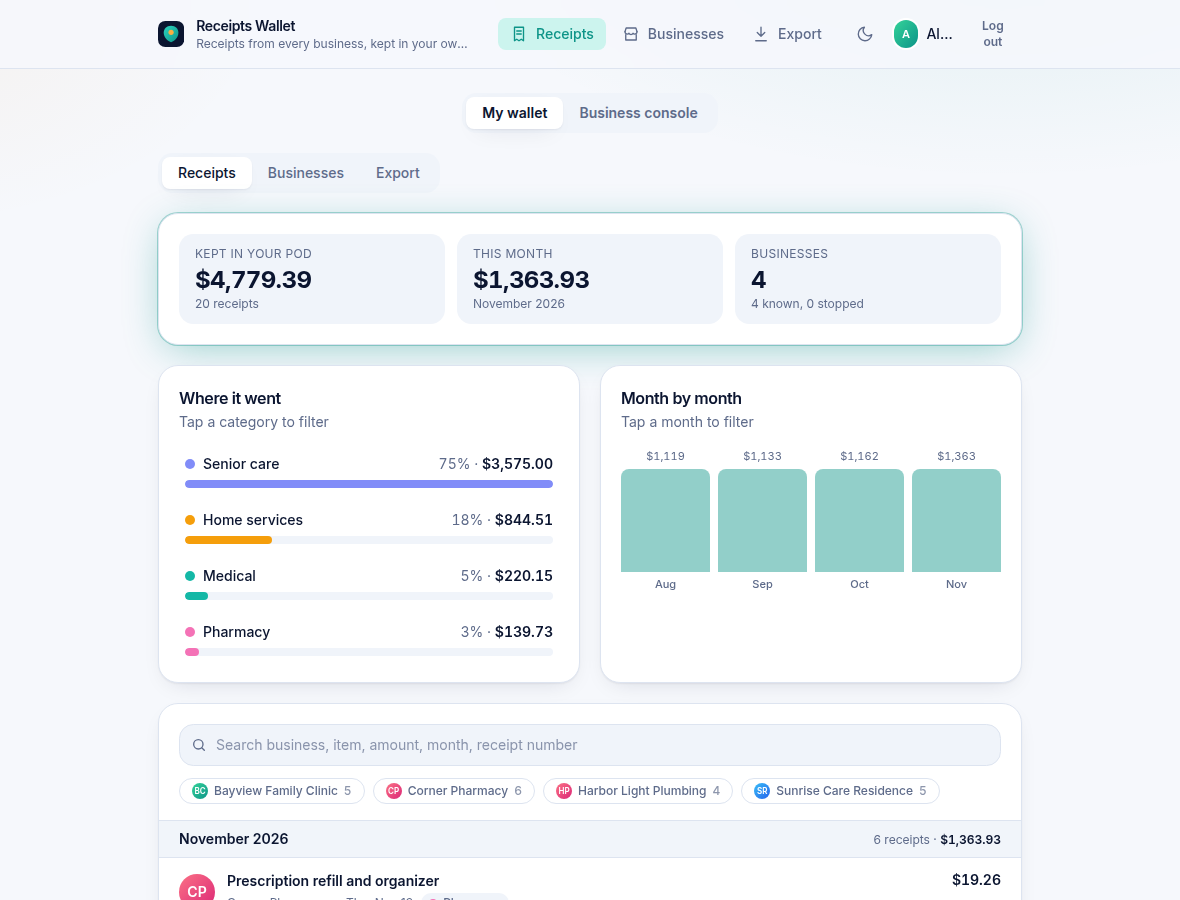
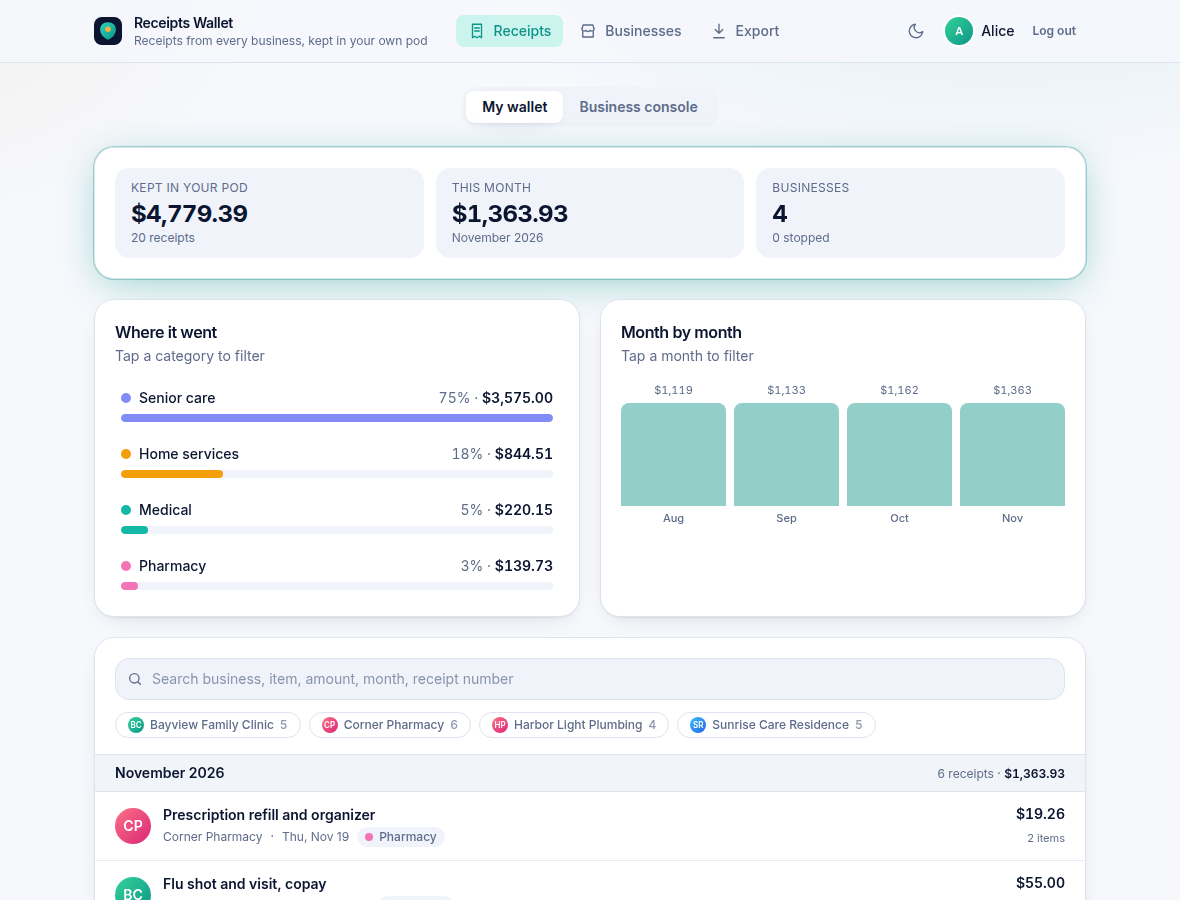
showcase: receipts-wallet compact stats, phone layout fixes, e2e green (6/6 against pods-dev)

diff --git a/showcase/apps/receipts-wallet/e2e/story.test.ts b/showcase/apps/receipts-wallet/e2e/story.test.ts
@@ -65,6 +65,26 @@ async function logIn(page: Page, who: 'ALICE' | 'PRACTITIONER') {
 
 const nav = (page: Page, label: string) => page.locator('nav[aria-label=Primary]:visible').getByRole('button', { name: new RegExp(`^${label}`) })
 
+/** Wait for the timeline; on failure leave a screenshot and the visible text so a flaky engine run can be diagnosed. */
+async function rows(page: Page, name: string) {
+  try {
+    await page.getByTestId('receipt-row').first().waitFor({ timeout: 60_000 })
+  } catch (e) {
+    fs.mkdirSync(shots, { recursive: true })
+    await page.screenshot({ path: path.join(shots, `FAILED-${name}.png`) })
+    throw new Error(`no timeline for ${name}: ${(await page.locator('body').innerText()).slice(0, 400)}`, { cause: e })
+  }
+}
+
+/** Elements that stick out past the right edge of the viewport (empty when the page fits). */
+const overflowing = (page: Page) =>
+  page.evaluate(() =>
+    [...document.querySelectorAll<HTMLElement>('body *')]
+      .filter((e) => e.getBoundingClientRect().right > window.innerWidth + 1 && !e.closest('[hidden]') && !e.closest('.overflow-x-auto') && getComputedStyle(e).position !== 'fixed')
+      .slice(0, 5)
+      .map((e) => `${e.tagName}.${String(e.className).slice(0, 60)}`),
+  )
+
 async function snap(page: Page, name: string) {
   await page.waitForTimeout(450) // let entrance animations finish
   fs.mkdirSync(shots, { recursive: true })
@@ -110,7 +130,7 @@ describe.skipIf(!have)('receipts wallet story on pods-dev', () => {
     await alice.getByTestId('login').waitFor()
     await snap(alice, '01-welcome')
     await logIn(alice, 'ALICE')
-    await alice.getByTestId('receipt-row').first().waitFor({ timeout: 60_000 })
+    await rows(alice, 'alice')
     expect(await alice.getByTestId('receipt-row').count()).toBe(20)
     await alice.waitForTimeout(600)
     await snap(alice, '02-timeline')
@@ -236,17 +256,30 @@ describe.skipIf(!have)('receipts wallet story on pods-dev', () => {
     const p = await phone.newPage()
     await p.goto(APP)
     await logIn(p, 'ALICE')
-    await p.getByTestId('receipt-row').first().waitFor({ timeout: 60_000 })
+    await rows(p, 'phone')
     await snap(p, '13-phone-timeline')
     expect(await p.evaluate(() => document.documentElement.scrollWidth <= window.innerWidth + 1)).toBe(true)
+    expect(await overflowing(p)).toEqual([])
     await p.getByTestId('receipt-row').first().click()
     await p.getByTestId('detail').waitFor()
     await snap(p, '14-phone-detail')
     await p.keyboard.press('Escape')
     await nav(p, 'Businesses').click()
     await p.getByTestId('business-card').first().waitFor()
+    await p.getByTestId('rights').first().waitFor({ timeout: 30_000 })
     await snap(p, '15-phone-businesses')
+    expect(await p.evaluate(() => document.documentElement.scrollWidth <= window.innerWidth + 1)).toBe(true)
+    expect(await overflowing(p)).toEqual([])
+    await nav(p, 'Export').click()
+    await p.getByTestId('export-summary').waitFor()
+    expect(await p.evaluate(() => document.documentElement.scrollWidth <= window.innerWidth + 1)).toBe(true)
+    await nav(p, 'Businesses').click()
     await nav(p, 'Receipts').click()
+    await p.getByRole('tab', { name: 'Business console' }).click()
+    await p.getByTestId('console-name').waitFor({ timeout: 30_000 })
+    await snap(p, '17-phone-console')
+    expect(await p.evaluate(() => document.documentElement.scrollWidth <= window.innerWidth + 1)).toBe(true)
+    await p.getByRole('tab', { name: 'My wallet' }).click()
     await p.evaluate(() => (document.documentElement.dataset.theme = 'dark'))
     await snap(p, '16-phone-dark')
     await phone.close()

diff --git a/showcase/apps/receipts-wallet/src/components/Console.tsx b/showcase/apps/receipts-wallet/src/components/Console.tsx
@@ -159,7 +159,7 @@ export function Console({ session }: { session: SolidSession }) {
         </div>
       </Card>
 
-      <div className="grid gap-5 lg:grid-cols-5">
+      <div className="grid grid-cols-[minmax(0,1fr)] gap-5 lg:grid-cols-5">
         <Card title="Issue a receipt" subtitle="Appended to the customer's inbox for you" className="lg:col-span-3">
           <div className="mb-4 flex flex-wrap gap-2" aria-label="Quick starts">
             {PRESETS.map((p, i) => (
@@ -167,7 +167,7 @@ export function Console({ session }: { session: SolidSession }) {
             ))}
           </div>
           <form className="space-y-4" onSubmit={(e) => { e.preventDefault(); void send() }}>
-            <div className="grid gap-3 sm:grid-cols-2">
+            <div className="grid grid-cols-[minmax(0,1fr)] gap-3 sm:grid-cols-2">
               <div className="sm:col-span-2"><Field label="Customer WebID" hint="Their pod is found from this. The delivery address is your own inbox in it."><input className={cx(inputCls, 'font-mono')} value={customer} onChange={(e) => setCustomer(e.target.value)} required inputMode="url" placeholder="https://.../profile/card#me" data-testid="customer" /></Field></div>
               <Field label="Issuer name on the receipt"><input className={inputCls} value={issuerName} onChange={(e) => setIssuerName(e.target.value)} required /></Field>
               <Field label="Receipt number"><input className={cx(inputCls, 'font-mono')} value={identifier} onChange={(e) => setIdentifier(e.target.value)} required /></Field>
@@ -198,7 +198,7 @@ export function Console({ session }: { session: SolidSession }) {
               <button type="button" className="text-sm font-semibold text-brand hover:underline" onClick={() => setRows((l) => [...l, { name: '', qty: '1', unit: '0.00' }])}>+ Add a line</button>
             </fieldset>
 
-            <div className="grid gap-3 sm:grid-cols-3">
+            <div className="grid grid-cols-[minmax(0,1fr)] gap-3 sm:grid-cols-3">
               <Field label="Tax rate, percent"><input className={cx(inputCls, 'tabular-nums')} value={taxPct} onChange={(e) => setTaxPct(e.target.value)} inputMode="decimal" /></Field>
               <Field label="Paid with">
                 <select className={inputCls} value={method} onChange={(e) => setMethod(e.target.value)}>{PAYMENT_METHODS.map((m) => <option key={m}>{m}</option>)}</select>

diff --git a/showcase/apps/receipts-wallet/src/components/Receipts.tsx b/showcase/apps/receipts-wallet/src/components/Receipts.tsx
@@ -11,10 +11,10 @@ import { ReceiptDetail } from './ReceiptDetail'
 
 function Stat({ label, value, sub, testid }: { label: string; value: React.ReactNode; sub?: React.ReactNode; testid?: string }) {
   return (
-    <div className="rounded-xl bg-surface-2 px-4 py-3">
-      <p className="text-xs uppercase tracking-wide text-muted">{label}</p>
-      <p className="mt-0.5 text-2xl font-bold tracking-tight tabular-nums" data-testid={testid}>{value}</p>
-      {sub && <p className="text-xs text-muted">{sub}</p>}
+    <div className="min-w-0 rounded-xl bg-surface-2 px-3 py-2.5 sm:px-4 sm:py-3">
+      <p className="truncate text-[10px] uppercase tracking-wide text-muted sm:text-xs">{label}</p>
+      <p className="mt-0.5 truncate text-lg font-bold sm:text-2xl tracking-tight tabular-nums" data-testid={testid}>{value}</p>
+      {sub && <p className="truncate text-[11px] text-muted sm:text-xs">{sub}</p>}
     </div>
   )
 }
@@ -86,14 +86,14 @@ export function Receipts({ receipts, businesses, filters, setFilters, loading }:
   return (
     <div className="space-y-5">
       <Card glow className="!overflow-visible">
-        <div className="grid gap-3 sm:grid-cols-3">
+        <div className="grid grid-cols-3 gap-2 sm:gap-3">
           <Stat label={isFiltered(filters) ? 'In this view' : 'Kept in your pod'} value={<Money cents={total} />} sub={`${shown.length} receipt${shown.length === 1 ? '' : 's'}`} testid="stat-total" />
           <Stat label="This month" value={<Money cents={thisMonth} />} sub={monthLabel(monthKey(new Date()))} />
-          <Stat label="Businesses" value={businesses.filter((b) => b.status === 'active').length} sub={`${businesses.length} known, ${businesses.filter((b) => b.status === 'stopped').length} stopped`} />
+          <Stat label="Businesses" value={businesses.filter((b) => b.status === 'active').length} sub={`${businesses.filter((b) => b.status === 'stopped').length} stopped`} />
         </div>
       </Card>
 
-      <div className="grid gap-5 md:grid-cols-2">
+      <div className="grid grid-cols-[minmax(0,1fr)] gap-5 md:grid-cols-2">
         <Card title="Where it went" subtitle="Tap a category to filter">
           <Bars rows={cats} total={forCategories.reduce((a, r) => a + r.total, 0)} onPick={(k) => toggle('category', k)} active={filters.category} label="Totals per category" />
         </Card>

diff --git a/showcase/apps/receipts-wallet/src/components/Businesses.tsx b/showcase/apps/receipts-wallet/src/components/Businesses.tsx
@@ -95,7 +95,7 @@ function AddBusiness({ api }: { api: WalletApi }) {
   return (
     <Card title="Let a business send you receipts" subtitle="It gets its own inbox in your pod, with one right: add a file.">
       <form
-        className="grid gap-3 sm:grid-cols-2"
+        className="grid grid-cols-[minmax(0,1fr)] gap-3 sm:grid-cols-2"
         onSubmit={(e) => {
           e.preventDefault()
           void submit(name, webId.trim(), category)
@@ -136,7 +136,7 @@ export function Businesses({ api }: { api: WalletApi }) {
       {api.businesses.length === 0 ? (
         <Card><EmptyState icon={Icon.store} title="No business can send you receipts yet" hint="Allow a business below. It will get an inbox that only accepts new files, nothing more." /></Card>
       ) : (
-        <div className="grid gap-5 lg:grid-cols-2">
+        <div className="grid grid-cols-[minmax(0,1fr)] gap-5 lg:grid-cols-2">
           {api.businesses.map((b) => <BusinessCard key={b.key} api={api} b={b} mine={api.receipts.filter((r) => r.business === b.key)} />)}
         </div>
       )}

diff --git a/showcase/apps/receipts-wallet/src/components/ExportTab.tsx b/showcase/apps/receipts-wallet/src/components/ExportTab.tsx
@@ -26,7 +26,7 @@ export function ExportTab({ receipts, filters, owner }: { receipts: Receipt[]; f
           </div>
         )}
         <p className="mb-4 text-sm text-muted" data-testid="export-summary">{list.length} receipts, {money(total)} in total.</p>
-        <div className="grid gap-3 sm:grid-cols-3">
+        <div className="grid grid-cols-[minmax(0,1fr)] gap-3 sm:grid-cols-3">
           <div className="flex flex-col gap-2 rounded-xl border border-line p-4">
             <h3 className="text-sm font-semibold">Receipts CSV</h3>
             <p className="flex-1 text-xs text-muted">One row per receipt: date, business, category, subtotal, tax, total, payment reference.</p>
